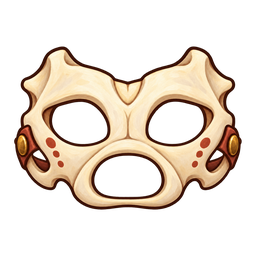
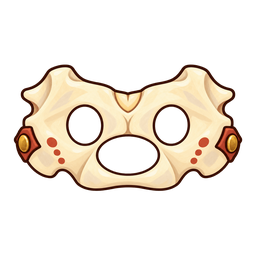
feat(halloween): place all 29 Halloween 2026 accessories; redraw seven as flat overlays
Founder direction: the pieces sit naturally over the pig, no rounded 3D
effects that read as separate objects.

Placement (studio save-rel endpoint, production resolveSlot verified on all
six pigs at idle, turned, turned-seated, seated and wave):
- hats sink onto the crown; the headwraps and headbands follow the head outline
- bows sit at the neck as bow ties, the house convention, so each Look's hat
  and bow can be worn together
- held items stand by the hoof while it is on the ground, and a `wave`
  override hangs lanterns and the pail from the handle top, holds the broom
  by its handle and the flask by its neck
- spirit_glow is sized to frame the pig, with its outer wisps softened through
  soften_aura_edges' falloff; little_haunt floats beside the head so the pig
  no longer hides it

Art redrawn fidelity-first through the Codex lane (native alpha, no keying):
- silly_sheet_ghost_hood, friendly_skull_facepaint: openings laid out on
  Rosie's face, so the eye holes sit on the eyes and the snout shows through.
  Each gets a turned side sprite and face/face_sit overrides on eye_l
- moonpuff_wolf_ears, patchwork_bolt_cap: a wide, shallow band that sits on
  the head instead of a tall horseshoe that floated over the face
- lantern_sprout_cap, halloween_2026_bat_ear_cap: no inner lining under the
  front edge
- halloween_2026_star_headwrap: upright, snug wrap with no hanging tails

Review sheets: docs/design/halloween-2026/placement-contact-{rosie,poses}.png

Changed region(s): [[0.0312, 0.1562, 0.9688, 0.8438]]

diff --git a/constants/hat_rel.generated.ts b/constants/hat_rel.generated.ts
@@ -33,6 +33,7 @@ export const HAT_REL_DATA: Record<string, RelSpec> = {
 	controller: { pivot: { x: 0.4, y: 0.6839 }, widthFrac: 0.4, anchor: "hand_r", behind: false },
 	cowboy: { pivot: { x: 0.5266, y: 0.58 }, widthFrac: 0.59, anchor: "head", behind: false },
 	crew_pennant: { pivot: { x: 0.2482, y: 0.9067 }, widthFrac: 0.4, anchor: "hand_r", behind: false },
+	crossbones_bow: { pivot: { x: 0.5, y: 0.5 }, widthFrac: 0.42, anchor: "neck", behind: false },
 	crown: { pivot: { x: 0.5196, y: 0.8609 }, widthFrac: 0.4, anchor: "head", behind: false },
 	daisy_flower_crown: { pivot: { x: 0.4816, y: 0.5789 }, widthFrac: 0.42, anchor: "head", behind: false },
 	devil_horns: { pivot: { x: 0.5231, y: 0.5565 }, widthFrac: 0.4, anchor: "head", behind: true },
@@ -42,6 +43,7 @@ export const HAT_REL_DATA: Record<string, RelSpec> = {
 	festival_pennant: { pivot: { x: 0.5, y: 0.55 }, widthFrac: 0.4, anchor: "hand_r", behind: false },
 	firefly_lantern: { pivot: { x: 0.5036, y: 0.8768 }, widthFrac: 0.445, anchor: "hand_r", behind: false },
 	flowers: { pivot: { x: 0.3679, y: 0.6982 }, widthFrac: 0.4, anchor: "hand_r", behind: false },
+	friendly_skull_facepaint: { pivot: { x: 0.4984, y: 0.508 }, widthFrac: 0.958, anchor: "eyes", behind: false, perAnim: { face: { pivot: { x: 0.4068, y: 0.4802 }, widthFrac: 0.779, anchor: "eye_l", behind: false }, face_sit: { pivot: { x: 0.4068, y: 0.4802 }, widthFrac: 0.727, anchor: "eye_l", behind: false } } },
 	frost_spectacles: { pivot: { x: 0.4601, y: 0.4896 }, widthFrac: 0.7, anchor: "eyes", behind: false },
 	frosted_cupcake_crown: { pivot: { x: 0.5039, y: 0.7815 }, widthFrac: 0.42, anchor: "head", behind: false },
 	galaxy_shades: { pivot: { x: 0.49, y: 0.52 }, widthFrac: 0.62, anchor: "eyes", behind: false },
@@ -50,16 +52,33 @@ export const HAT_REL_DATA: Record<string, RelSpec> = {
 	golden_hog_cup: { pivot: { x: 0.5, y: 0.92 }, widthFrac: 0.34, anchor: "hand_r", behind: false },
 	golden_truffle: { pivot: { x: 0.5, y: 0.55 }, widthFrac: 0.4, anchor: "hand_r", behind: false },
 	hair_bow: { pivot: { x: 0.4854, y: 0.4248 }, widthFrac: 0.42, anchor: "neck", behind: false },
+	halloween_2026_bat_ear_cap: { pivot: { x: 0.5, y: 0.66 }, widthFrac: 0.64, anchor: "head", behind: false },
+	halloween_2026_bat_wing_bow: { pivot: { x: 0.5, y: 0.5 }, widthFrac: 0.42, anchor: "neck", behind: false },
+	halloween_2026_bubbling_flask: { pivot: { x: 0.27, y: 0.84 }, widthFrac: 0.34, anchor: "hand_r", behind: false, perAnim: { wave: { pivot: { x: 0.5, y: 0.2 }, widthFrac: 0.34, anchor: "hand_r", behind: false } } },
+	halloween_2026_cobweb_crown: { pivot: { x: 0.5, y: 0.66 }, widthFrac: 0.5, anchor: "head", behind: false },
+	halloween_2026_crystal_ball: { pivot: { x: 0.27, y: 0.84 }, widthFrac: 0.36, anchor: "hand_r", behind: false, perAnim: { wave: { pivot: { x: 0.5, y: 0.92 }, widthFrac: 0.36, anchor: "hand_r", behind: false } } },
+	halloween_2026_ghostlight_lantern: { pivot: { x: 0.27, y: 0.84 }, widthFrac: 0.36, anchor: "hand_r", behind: false, perAnim: { wave: { pivot: { x: 0.5, y: 0.07 }, widthFrac: 0.36, anchor: "hand_r", behind: false } } },
+	halloween_2026_little_haunt: { pivot: { x: 1.82, y: 1.42 }, widthFrac: 0.36, anchor: "body", behind: true },
+	halloween_2026_patched_straw_hat: { pivot: { x: 0.5, y: 0.62 }, widthFrac: 0.7, anchor: "head", behind: false },
+	halloween_2026_pirate_tricorn_hat: { pivot: { x: 0.5, y: 0.58 }, widthFrac: 0.7, anchor: "head", behind: false },
+	halloween_2026_spark_goggles: { pivot: { x: 0.5, y: 0.5 }, widthFrac: 0.72, anchor: "eyes", behind: false },
+	halloween_2026_star_headwrap: { pivot: { x: 0.5, y: 0.57 }, widthFrac: 0.68, anchor: "head", behind: false },
+	halloween_2026_straw_bow: { pivot: { x: 0.5, y: 0.5 }, widthFrac: 0.42, anchor: "neck", behind: false },
+	halloween_2026_toy_cutlass: { pivot: { x: 0.28, y: 0.76 }, widthFrac: 0.42, anchor: "hand_r", behind: false },
 	halo: { pivot: { x: 0.5326, y: 0.7964 }, widthFrac: 0.425, anchor: "head", behind: false },
 	heart_sunglasses: { pivot: { x: 0.4913, y: 0.4809 }, widthFrac: 0.655, anchor: "eyes", behind: false },
+	hedge_broom: { pivot: { x: 0.45, y: 0.86 }, widthFrac: 0.45, anchor: "hand_r", behind: false, perAnim: { wave: { pivot: { x: 0.7, y: 0.3 }, widthFrac: 0.45, anchor: "hand_r", behind: false } } },
 	heraldic_crest_bow: { pivot: { x: 0.4989, y: 0.3968 }, widthFrac: 0.42, anchor: "neck", behind: false },
 	hero_mask: { pivot: { x: 0.4848, y: 0.4892 }, widthFrac: 0.73, anchor: "eyes", behind: false },
 	hibiscus_sun_crown: { pivot: { x: 0.4977, y: 0.7087 }, widthFrac: 0.42, anchor: "head", behind: false },
+	high_collar_scarf: { pivot: { x: 0.5, y: 0.4 }, widthFrac: 0.55, anchor: "neck", behind: false },
 	hungerers_crown: { pivot: { x: 0.5, y: 0.9 }, widthFrac: 0.54, anchor: "head", behind: false },
 	ice_cream: { pivot: { x: 0.5036, y: 0.7232 }, widthFrac: 0.6, anchor: "hand_r", behind: false },
 	jam_jar_lenses: { pivot: { x: 0.4831, y: 0.5226 }, widthFrac: 0.585, anchor: "eyes", behind: false },
 	knit_scarf: { pivot: { x: 0.4988, y: 0.3005 }, widthFrac: 0.35, anchor: "neck", behind: false },
+	lantern_sprout_cap: { pivot: { x: 0.5, y: 0.66 }, widthFrac: 0.62, anchor: "head", behind: false },
 	leaf_crown: { pivot: { x: 0.5064, y: 0.5321 }, widthFrac: 0.4, anchor: "head", behind: false },
+	linen_knot_headwrap: { pivot: { x: 0.5, y: 0.38 }, widthFrac: 0.75, anchor: "head", behind: false },
 	magic_wand: { pivot: { x: 0.3214, y: 0.8804 }, widthFrac: 0.385, anchor: "hand_r", behind: false },
 	magnifier: { pivot: { x: 0.325, y: 0.9018 }, widthFrac: 0.4, anchor: "hand_r", behind: false },
 	masquerade: { pivot: { x: 0.4931, y: 0.532 }, widthFrac: 0.62, anchor: "eyes", behind: false },
@@ -67,6 +86,9 @@ export const HAT_REL_DATA: Record<string, RelSpec> = {
 	messenger: { pivot: { x: 0.4979, y: 0.5705 }, widthFrac: 0.4, anchor: "head", behind: false },
 	midnight_eye_mask: { pivot: { x: 0.4989, y: 0.58 }, widthFrac: 0.81, anchor: "eyes", behind: false },
 	monocle: { pivot: { x: 0.5257, y: 0.4269 }, widthFrac: 0.23, anchor: "eye_l", behind: false },
+	moon_charm: { pivot: { x: 0.5, y: 0.3 }, widthFrac: 0.4, anchor: "neck", behind: false },
+	moonbrew_witch_hat: { pivot: { x: 0.5, y: 0.73 }, widthFrac: 0.66, anchor: "head", behind: false },
+	moonpuff_wolf_ears: { pivot: { x: 0.5, y: 0.46 }, widthFrac: 0.75, anchor: "head", behind: false },
 	moth_waltz: { pivot: { x: 0.5128, y: 0.684 }, widthFrac: 0.42, anchor: "head", behind: false },
 	mud_pie: { pivot: { x: 0.5, y: 0.55 }, widthFrac: 0.4, anchor: "hand_r", behind: false },
 	mud_shovel: { pivot: { x: 0.5, y: 0.55 }, widthFrac: 0.4, anchor: "hand_r", behind: false },
@@ -75,15 +97,18 @@ export const HAT_REL_DATA: Record<string, RelSpec> = {
 	nerd_glasses: { pivot: { x: 0.4735, y: 0.5057 }, widthFrac: 0.6, anchor: "eyes", behind: false },
 	paper_boat: { pivot: { x: 0.5095, y: 0.7459 }, widthFrac: 0.525, anchor: "head", behind: false },
 	party: { pivot: { x: 0.5158, y: 0.8895 }, widthFrac: 0.47, anchor: "head", behind: false },
+	patchwork_bolt_cap: { pivot: { x: 0.5, y: 0.375 }, widthFrac: 1, anchor: "head", behind: false },
 	pencil: { pivot: { x: 0.5, y: 0.5 }, widthFrac: 0.4, anchor: "hand_r", behind: false },
 	pineapple_tiki_hat: { pivot: { x: 0.5, y: 0.6832 }, widthFrac: 0.59, anchor: "head", behind: false },
 	pink_bow: { pivot: { x: 0.4942, y: 0.3964 }, widthFrac: 0.36, anchor: "neck", behind: false },
+	pip_candle: { pivot: { x: 0.8, y: 0.84 }, widthFrac: 0.36, anchor: "hand_r", behind: false, perAnim: { wave: { pivot: { x: 0.8, y: 0.74 }, widthFrac: 0.36, anchor: "hand_r", behind: false } } },
 	pirate_tricorn: { pivot: { x: 0.4933, y: 0.7423 }, widthFrac: 0.525, anchor: "head", behind: false },
 	pixel_glasses: { pivot: { x: 0.4714, y: 0.5094 }, widthFrac: 0.59, anchor: "eyes", behind: false },
 	pizza_slice: { pivot: { x: 0.4893, y: 0.6196 }, widthFrac: 0.84, anchor: "hand_r", behind: false },
 	plumeria_lei_bow: { pivot: { x: 0.4921, y: 0.4686 }, widthFrac: 0.42, anchor: "neck", behind: false },
 	polka_bow: { pivot: { x: 0.4915, y: 0.3892 }, widthFrac: 0.385, anchor: "neck", behind: false },
 	prize_sash: { pivot: { x: 0.5115, y: 0.4094 }, widthFrac: 0.52, anchor: "neck", behind: false },
+	pumpkin_treat_pail: { pivot: { x: 0.27, y: 0.84 }, widthFrac: 0.38, anchor: "hand_r", behind: false, perAnim: { wave: { pivot: { x: 0.5, y: 0.07 }, widthFrac: 0.38, anchor: "hand_r", behind: false } } },
 	rainbow_bow: { pivot: { x: 0.4896, y: 0.3039 }, widthFrac: 0.26, anchor: "neck", behind: false },
 	rainbow_scarf: { pivot: { x: 0.5076, y: 0.2293 }, widthFrac: 0.28, anchor: "neck", behind: false },
 	reed_hat: { pivot: { x: 0.5, y: 0.82 }, widthFrac: 0.46, anchor: "head", behind: false },
@@ -97,8 +122,10 @@ export const HAT_REL_DATA: Record<string, RelSpec> = {
 	royal_pince_nez: { pivot: { x: 0.4809, y: 0.379 }, widthFrac: 0.62, anchor: "eyes", behind: false },
 	royal_velvet_bow: { pivot: { x: 0.4898, y: 0.3648 }, widthFrac: 0.27, anchor: "neck", behind: false },
 	safety_goggles: { pivot: { x: 0.4786, y: 0.4944 }, widthFrac: 0.72, anchor: "eyes", behind: false },
+	scarab_lantern: { pivot: { x: 0.27, y: 0.84 }, widthFrac: 0.36, anchor: "hand_r", behind: false, perAnim: { wave: { pivot: { x: 0.5, y: 0.06 }, widthFrac: 0.36, anchor: "hand_r", behind: false } } },
 	silk_bow: { pivot: { x: 0.492, y: 0.3604 }, widthFrac: 0.28, anchor: "neck", behind: false },
 	silk_scarf: { pivot: { x: 0.5121, y: 0.259 }, widthFrac: 0.24, anchor: "neck", behind: false },
+	silly_sheet_ghost_hood: { pivot: { x: 0.4978, y: 0.5171 }, widthFrac: 1.035, anchor: "eyes", behind: false, perAnim: { face: { pivot: { x: 0.6082, y: 0.5228 }, widthFrac: 1.253, anchor: "eye_l", behind: false }, face_sit: { pivot: { x: 0.6082, y: 0.5228 }, widthFrac: 1.171, anchor: "eye_l", behind: false } } },
 	silver_plume_helm: { pivot: { x: 0.5, y: 0.9 }, widthFrac: 0.52, anchor: "head", behind: false },
 	skull_mask: { pivot: { x: 0.4857, y: 0.3593 }, widthFrac: 0.585, anchor: "eyes", behind: false },
 	sleep_mask: { pivot: { x: 0.4856, y: 0.5063 }, widthFrac: 0.77, anchor: "eyes", behind: false },
@@ -109,9 +136,11 @@ export const HAT_REL_DATA: Record<string, RelSpec> = {
 	slop_pail_topper: { pivot: { x: 0.5185, y: 0.7433 }, widthFrac: 0.42, anchor: "head", behind: false },
 	snow_crystal_bow: { pivot: { x: 0.5116, y: 0.4387 }, widthFrac: 0.2, anchor: "neck", behind: false },
 	soccer_ball: { pivot: { x: 0.4701, y: 0.6004 }, widthFrac: 0.42, anchor: "hand_r", behind: false },
+	spirit_glow: { pivot: { x: 0.5, y: 0.7536 }, widthFrac: 1.38, anchor: "body", behind: true },
 	squire_feather_cap: { pivot: { x: 0.4811, y: 0.6982 }, widthFrac: 0.42, anchor: "head", behind: false },
 	stardust_bow: { pivot: { x: 0.4975, y: 0.3675 }, widthFrac: 0.3, anchor: "neck", behind: false },
 	stardust_sparkle_particle: { pivot: { x: 0.4951, y: 0.4632 }, widthFrac: 0.4, anchor: "head", behind: false },
+	stitched_bow: { pivot: { x: 0.5, y: 0.5 }, widthFrac: 0.42, anchor: "neck", behind: false },
 	striped_scarf: { pivot: { x: 0.4786, y: 0.3094 }, widthFrac: 0.27, anchor: "neck", behind: false },
 	summer_kerchief: { pivot: { x: 0.4859, y: 0.3316 }, widthFrac: 0.26, anchor: "neck", behind: false },
 	swamp_crown: { pivot: { x: 0.4892, y: 0.7931 }, widthFrac: 0.46, anchor: "head", behind: false },

diff --git a/constants/hat_side.generated.ts b/constants/hat_side.generated.ts
@@ -15,6 +15,7 @@ export const HAT_SIDE_IMAGES: Record<string, number> = {
 	coconut_shell_shades: require("../assets/images/hats/side/coconut_shell_shades.png"),
 	cowboy: require("../assets/images/hats/side/cowboy.png"),
 	domino: require("../assets/images/hats/side/domino.png"),
+	friendly_skull_facepaint: require("../assets/images/hats/side/friendly_skull_facepaint.png"),
 	frost_spectacles: require("../assets/images/hats/side/frost_spectacles.png"),
 	galaxy_shades: require("../assets/images/hats/side/galaxy_shades.png"),
 	heart_sunglasses: require("../assets/images/hats/side/heart_sunglasses.png"),
@@ -38,6 +39,7 @@ export const HAT_SIDE_IMAGES: Record<string, number> = {
 	round_glasses: require("../assets/images/hats/side/round_glasses.png"),
 	royal_pince_nez: require("../assets/images/hats/side/royal_pince_nez.png"),
 	safety_goggles: require("../assets/images/hats/side/safety_goggles.png"),
+	silly_sheet_ghost_hood: require("../assets/images/hats/side/silly_sheet_ghost_hood.png"),
 	silver_plume_helm: require("../assets/images/hats/side/silver_plume_helm.png"),
 	skull_mask: require("../assets/images/hats/side/skull_mask.png"),
 	sleep_mask: require("../assets/images/hats/side/sleep_mask.png"),
